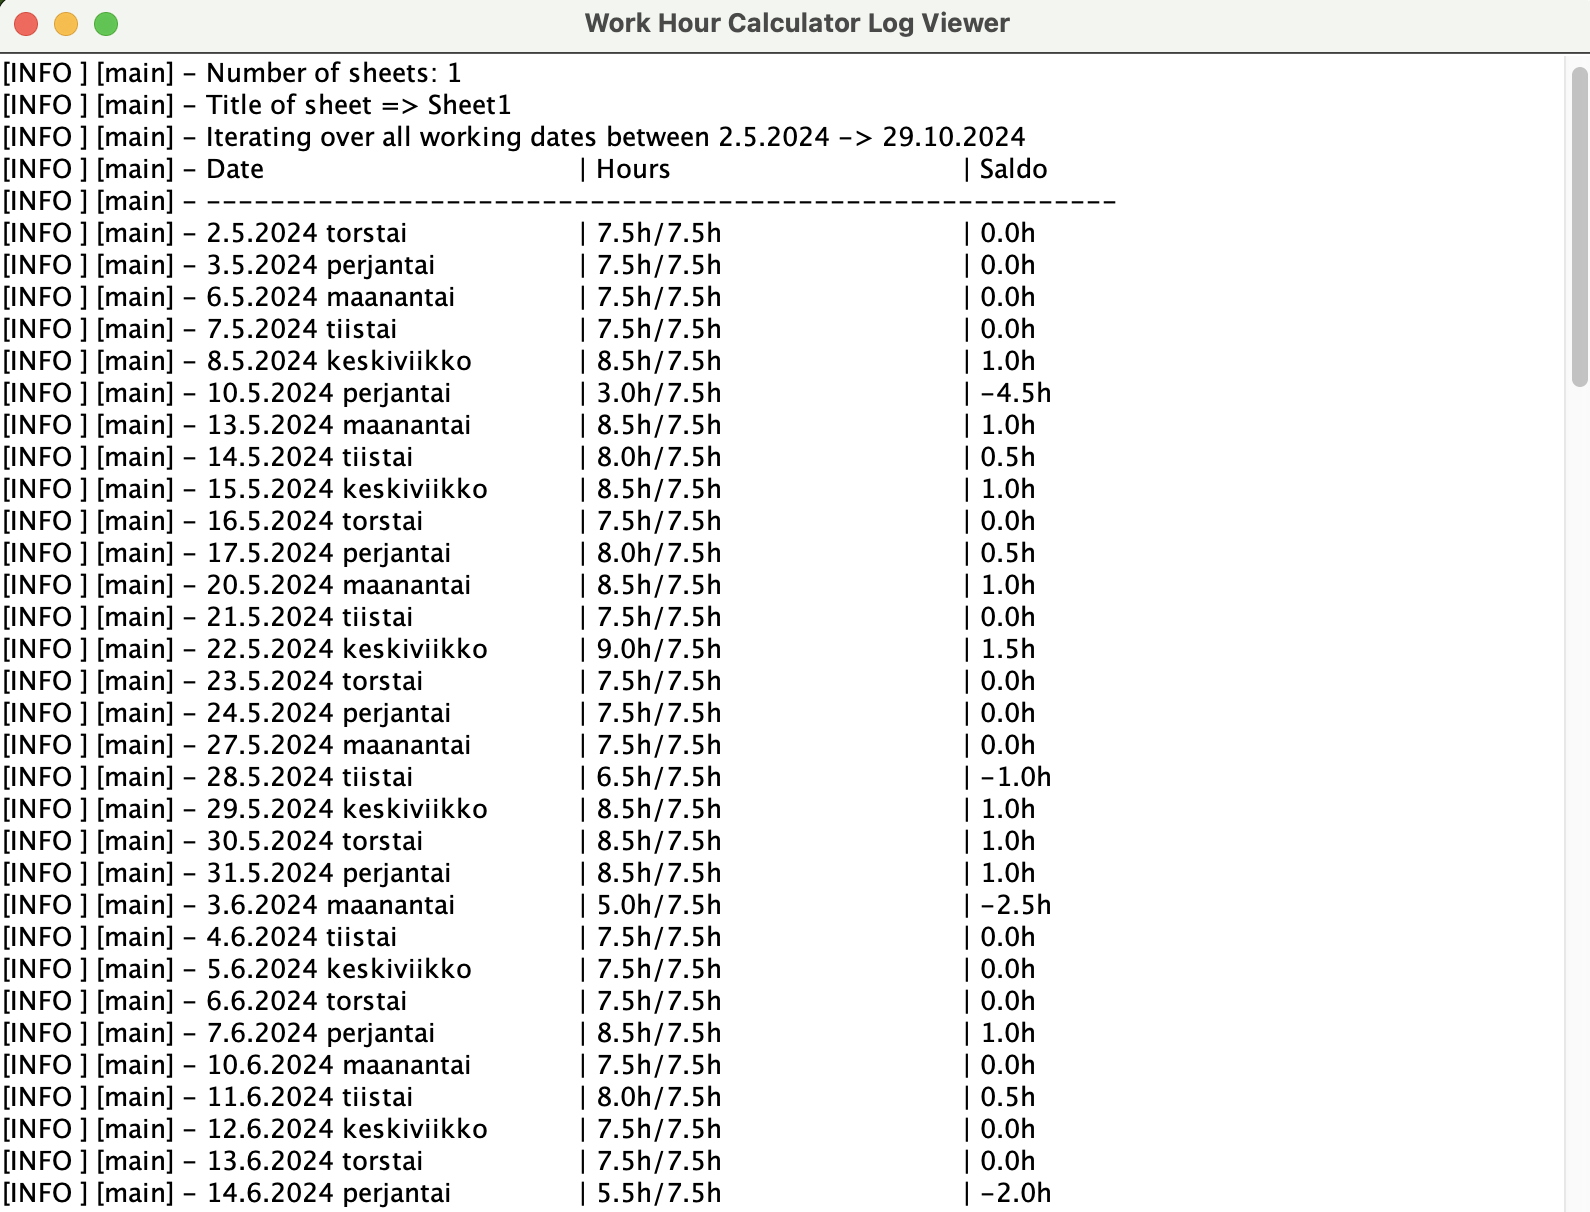
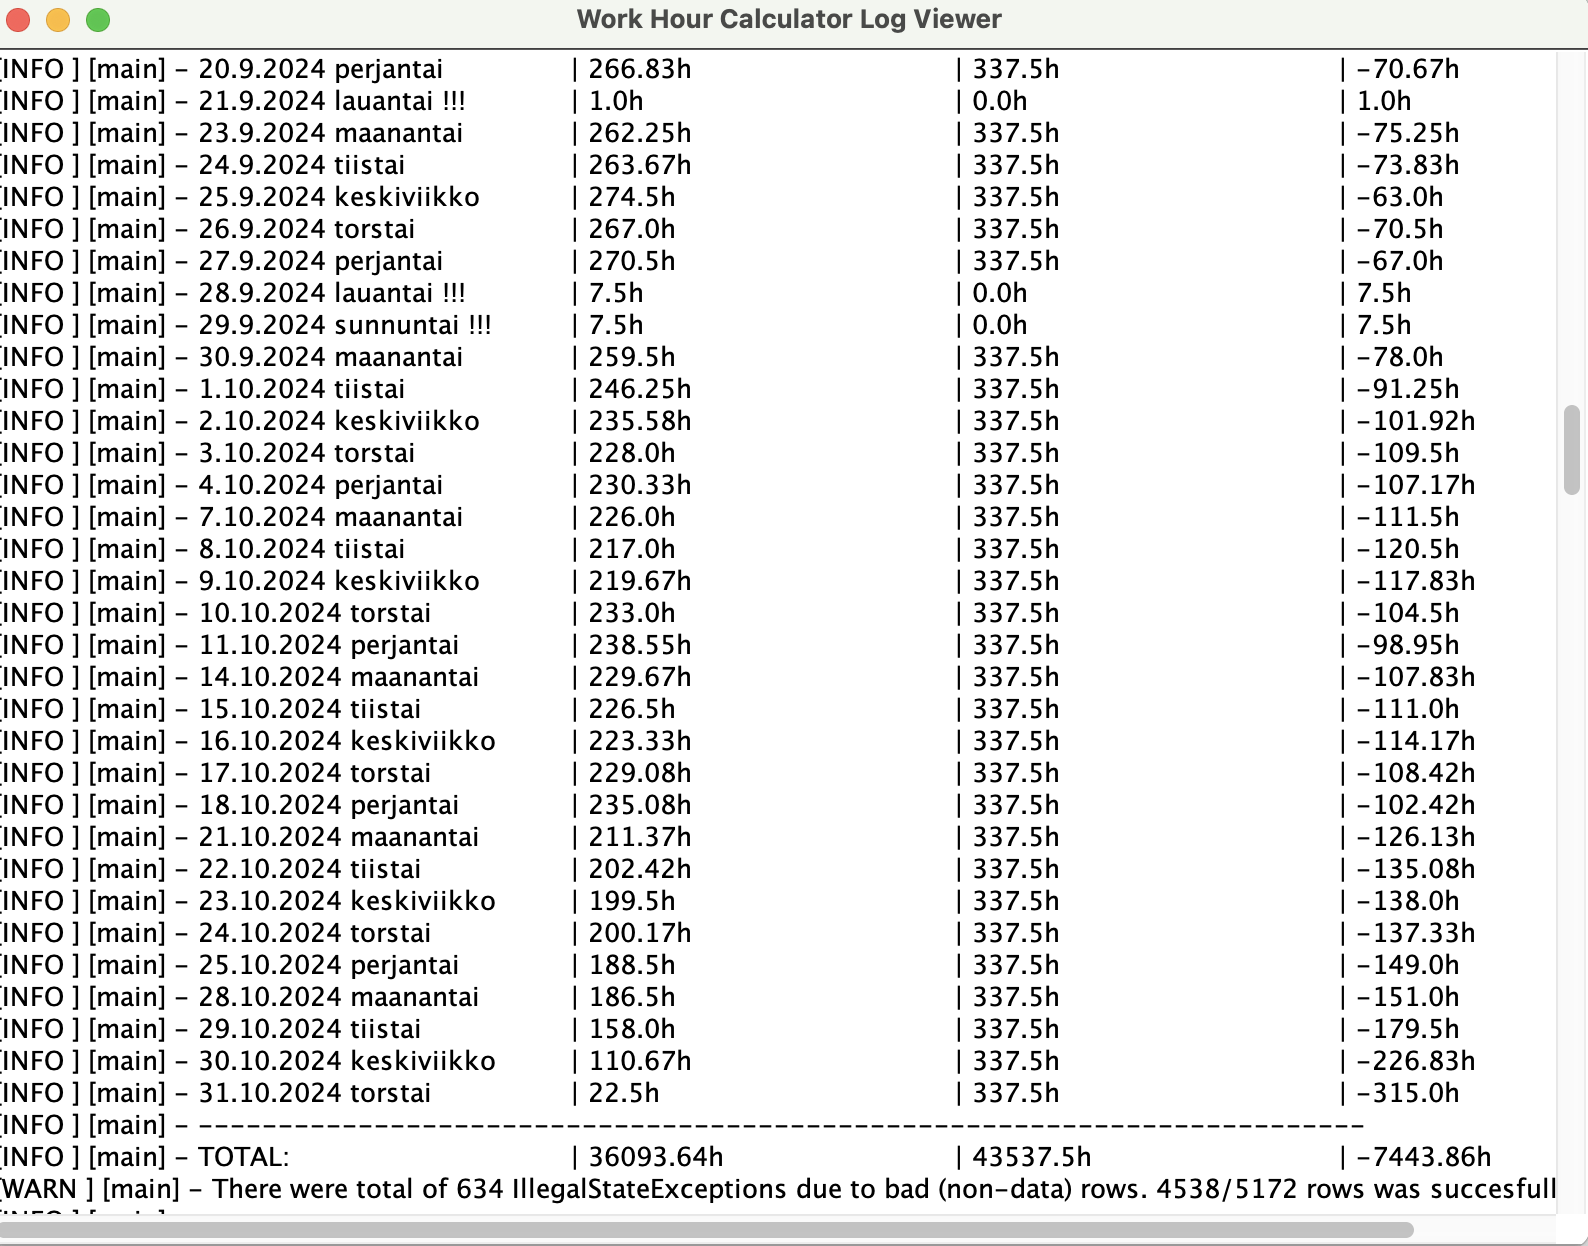
Add ability to calculate multiple employee hours in single sheet

Changed region(s): [[0.0, 0.0, 1.0, 1.0], [0.9874, 0.9769, 1.0, 1.0]]

diff --git a/src/main/java/fi/jonnen/whc/WorkHourCalculatorMain.java b/src/main/java/fi/jonnen/whc/WorkHourCalculatorMain.java
@@ -44,9 +44,10 @@ import fi.jonnen.whc.types.WorkHourRow;
 
 public class WorkHourCalculatorMain {
 
-	private static final String MESSAGE = "---------------------------------------------------------";
+	private static final String MESSAGE = "-------------------------------------------------------------------------";
 	private static final Logger LOG = LogManager.getLogger(WorkHourCalculatorMain.class);
 	private static final String DATE = "Date";
+	private static final String EMPLOYEE = "Employee";
 	private static final String COMMENTS = "Comments";
 	private static final String PROJECT = "Project";
 	private static final String TASK = "Task";
@@ -58,6 +59,7 @@ public class WorkHourCalculatorMain {
 	private static final DateFormat DATE_FORMAT = DateFormat.getDateInstance(DateFormat.DEFAULT, LOCALE);
 
 	private static Integer iCellDate;
+	private static Integer iCellEmployee;
 	private static Integer iCellComments;
 	private static Integer iCellProject;
 	private static Integer iCellTask;
@@ -72,7 +74,7 @@ public class WorkHourCalculatorMain {
 			List<Path> allValidFiles = paths.filter(Files::isRegularFile).filter(p -> p.toString().endsWith(".xlsx"))
 					.collect(Collectors.toList());
 			for (Path validFile : allValidFiles) {
-				tryToReadFile(validFile);
+				tryToReadFileAndLogReport(validFile);
 			}
 		} catch (Exception e) {
 			LOG.error(e.getMessage(), e);
@@ -91,7 +93,7 @@ public class WorkHourCalculatorMain {
 		}
 	}
 
-	private static void tryToReadFile(Path validFile) {
+	private static void tryToReadFileAndLogReport(Path validFile) {
 		try (Workbook wb = new XSSFWorkbook(new File(validFile.toUri()))) {
 			LOG.info("File: {}", validFile);
 			LOG.info("Number of sheets: {}", wb.getNumberOfSheets());
@@ -99,6 +101,7 @@ public class WorkHourCalculatorMain {
 				LOG.info("Title of sheet => {}", sheet.getSheetName());
 				sheet.removeRow(initCellIndices(sheet));
 				final List<WorkHourRow> whrs = new ArrayList<>();
+				final double workHourExpectedMultiplier = countDistinctEmployees(sheet);
 				int iseCount = 0;
 				for (Row row : sheet) {
 					try {
@@ -119,61 +122,98 @@ public class WorkHourCalculatorMain {
 						ise.printStackTrace();
 					}
 				}
-				Collections.sort(whrs);
-				Date earliestDate = whrs.get(0).getDate();
-				Date latestDate = whrs.get(whrs.size() - 1).getDate();
-				LOG.info("Iterating over all working dates between {} -> {}", DATE_FORMAT.format(earliestDate),
-						DATE_FORMAT.format(latestDate));
-
-				GregorianCalendar calCurrent = new GregorianCalendar(LOCALE);
-				calCurrent.setTime(earliestDate);
-				GregorianCalendar calEnd = new GregorianCalendar(LOCALE);
-				calEnd.setTime(latestDate);
-				calEnd.add(Calendar.DATE, 1);
-				double workHoursDone = 0d;
-				double workHoursExpected = 0d;
-				LOG.info("{}\t\t| {}\t\t| {}", "Date", "Hours", "Saldo");
-				LOG.info(MESSAGE);
-				while (calCurrent.before(calEnd)) {
-					List<WorkHourRow> whrsCurrent = whrs.stream()
-							.filter(whr -> calCurrent.getTime().equals(whr.getDate())).collect(Collectors.toList());
-					double workHoursCurrent = whrsCurrent.stream().mapToDouble(w -> w.getWorkHours()).sum();
-					double hourBankCurrent = workHoursCurrent - WORK_HOURS_PER_DAY;
-					String dayOfWeekCurrent = String.valueOf(calCurrent.get(Calendar.DAY_OF_WEEK));
-					String currentDate = DATE_FORMAT.format(calCurrent.getTime());
-					boolean isWorkHoursExpected = !nonWorkingDaysOfWeek.contains(dayOfWeekCurrent)
-							&& !nonWorkingDates.contains(currentDate);
-					if (workHoursCurrent == 0d && !isWorkHoursExpected) {
-						calCurrent.add(Calendar.DATE, 1);
-						continue;
-					}
-					LOG.info("{} {}\t| {}h/{}h\t\t| {}h", currentDate,
-							calCurrent.getDisplayName(Calendar.DAY_OF_WEEK, Calendar.LONG_STANDALONE, LOCALE),
-							workHoursCurrent, WORK_HOURS_PER_DAY, hourBankCurrent);
-					workHoursDone += workHoursCurrent;
-					if (isWorkHoursExpected) {
-						workHoursExpected += WORK_HOURS_PER_DAY;
-					}
-					calCurrent.add(Calendar.DATE, 1);
-				}
-				LOG.info(MESSAGE);
-				LOG.info("TOTAL:\t\t| {}h/{}h\t| {}h", workHoursDone, workHoursExpected,
-						(workHoursDone - workHoursExpected));
-				if (iseCount > 0) {
-					LOG.warn(
-							"There were total of {} IllegalStateExceptions due to bad (non-data) rows. {}/{} rows was succesfully calculated",
-							iseCount, (whrs.size() - iseCount), whrs.size());
-				}
-				LOG.info(MESSAGE);
+				logReport(whrs, workHourExpectedMultiplier, iseCount);
 				resetCellIndices();
 			});
 		} catch (Exception e) {
 			LOG.error(e.getMessage(), e);
 		}
 	}
-	
+
+	private static void logReport(final List<WorkHourRow> whrs, final double workHourExpectedMultiplier, int iseCount) {
+		Collections.sort(whrs);
+		Date earliestDate = whrs.get(0).getDate();
+		Date latestDate = whrs.get(whrs.size() - 1).getDate();
+		LOG.info("Iterating over all working dates between {} -> {}", DATE_FORMAT.format(earliestDate),
+				DATE_FORMAT.format(latestDate));
+
+		GregorianCalendar calCurrent = new GregorianCalendar(LOCALE);
+		calCurrent.setTime(earliestDate);
+		GregorianCalendar calEnd = new GregorianCalendar(LOCALE);
+		calEnd.setTime(latestDate);
+		calEnd.add(Calendar.DATE, 1);
+		double workHoursDone = 0d;
+		double workHoursExpected = 0d;
+		final double workHoursPerDayExpected = WORK_HOURS_PER_DAY * workHourExpectedMultiplier;
+		LOG.info("{}\t\t| {}\t\t| {}\t| {}", "Date", "Hours Done", "Hours Expected", "Saldo");
+		LOG.info(MESSAGE);
+		while (calCurrent.before(calEnd)) {
+			String dayOfWeekCurrent = String.valueOf(calCurrent.get(Calendar.DAY_OF_WEEK));
+			String currentDate = DATE_FORMAT.format(calCurrent.getTime());
+			boolean isWorkHoursExpected = !nonWorkingDaysOfWeek.contains(dayOfWeekCurrent)
+					&& !nonWorkingDates.contains(currentDate);
+			List<WorkHourRow> whrsCurrent = whrs.stream().filter(whr -> calCurrent.getTime().equals(whr.getDate()))
+					.collect(Collectors.toList());
+			double workHoursCurrent = round(whrsCurrent.stream().mapToDouble(w -> w.getWorkHours()).sum(), 2);
+			double hourBankCurrent = round(workHoursCurrent - (isWorkHoursExpected ? workHoursPerDayExpected : 0d), 2);
+			if (workHoursCurrent == 0d && !isWorkHoursExpected) {
+				calCurrent.add(Calendar.DATE, 1);
+				continue;
+			}
+			LOG.info("{} {} {}\t| {}h\t\t| {}h\t\t| {}h", currentDate,
+					calCurrent.getDisplayName(Calendar.DAY_OF_WEEK, Calendar.LONG_STANDALONE, LOCALE),
+					(!isWorkHoursExpected ? "!!!" : ""), workHoursCurrent,
+					(isWorkHoursExpected ? workHoursPerDayExpected : 0d), hourBankCurrent);
+			workHoursDone += workHoursCurrent;
+			if (isWorkHoursExpected) {
+				workHoursExpected += workHoursPerDayExpected;
+			}
+			calCurrent.add(Calendar.DATE, 1);
+		}
+		workHoursDone = round(workHoursDone, 2);
+		workHoursExpected = round(workHoursExpected, 2);
+		final double workHoursSaldo = round(workHoursDone - workHoursExpected, 2);
+		LOG.info(MESSAGE);
+		LOG.info("TOTAL:\t\t| {}h\t\t| {}h\t\t| {}h", workHoursDone, workHoursExpected, workHoursSaldo);
+		if (iseCount > 0) {
+			LOG.warn(
+					"There were total of {} IllegalStateExceptions due to bad (non-data) rows. {}/{} rows was succesfully calculated",
+					iseCount, (whrs.size() - iseCount), whrs.size());
+		}
+		LOG.info(MESSAGE);
+	}
+
+	private static double round(double value, int places) {
+		if (places < 0)
+			throw new IllegalArgumentException();
+
+		long factor = (long) Math.pow(10, places);
+		value = value * factor;
+		long tmp = Math.round(value);
+		return (double) tmp / factor;
+	}
+
+	private static double countDistinctEmployees(Sheet sheet) {
+		if (iCellEmployee == null) {
+			return 1;
+		}
+		Set<String> employees = new HashSet<>();
+		for (Row row : sheet) {
+			try {
+				String employee = row.getCell(iCellEmployee).getStringCellValue();
+				if (!"".equals(employee)) {
+					employees.add(row.getCell(iCellEmployee).getStringCellValue().toLowerCase());
+				}
+			} catch (IllegalStateException ise) {
+				ise.printStackTrace();
+			}
+		}
+		return !employees.isEmpty() ? employees.size() : 1;
+	}
+
 	private static void resetCellIndices() {
 		iCellDate = null;
+		iCellEmployee = null;
 		iCellComments = null;
 		iCellProject = null;
 		iCellTask = null;
@@ -185,16 +225,21 @@ public class WorkHourCalculatorMain {
 			Iterator<Cell> i = row.cellIterator();
 			while (i.hasNext()) {
 				Cell cell = i.next();
-				if (cell.getStringCellValue().equals(DATE) && iCellDate == null) {
+				if (cell.getStringCellValue().equalsIgnoreCase(DATE) && iCellDate == null) {
 					iCellDate = cell.getColumnIndex();
-				} else if (cell.getStringCellValue().equals(COMMENTS) && iCellComments == null) {
+				} else if (cell.getStringCellValue().equalsIgnoreCase(COMMENTS) && iCellComments == null) {
 					iCellComments = cell.getColumnIndex();
-				} else if (cell.getStringCellValue().equals(PROJECT) && iCellProject == null) {
+				} else if (cell.getStringCellValue().equalsIgnoreCase(PROJECT) && iCellProject == null) {
 					iCellProject = cell.getColumnIndex();
-				} else if (cell.getStringCellValue().equals(TASK) && iCellTask == null) {
+				} else if (cell.getStringCellValue().equalsIgnoreCase(TASK) && iCellTask == null) {
 					iCellTask = cell.getColumnIndex();
-				} else if (cell.getStringCellValue().equals(ACTUAL_WORK) && iCellActualWork == null) {
+				} else if (cell.getStringCellValue().equalsIgnoreCase(ACTUAL_WORK) && iCellActualWork == null) {
 					iCellActualWork = cell.getColumnIndex();
+				}
+
+				// Used only for distinct count, and may not be present
+				if (cell.getStringCellValue().equalsIgnoreCase(EMPLOYEE)) {
+					iCellEmployee = cell.getColumnIndex();
 				}
 			}
 			if (iCellDate != null && iCellComments != null && iCellProject != null && iCellTask != null
